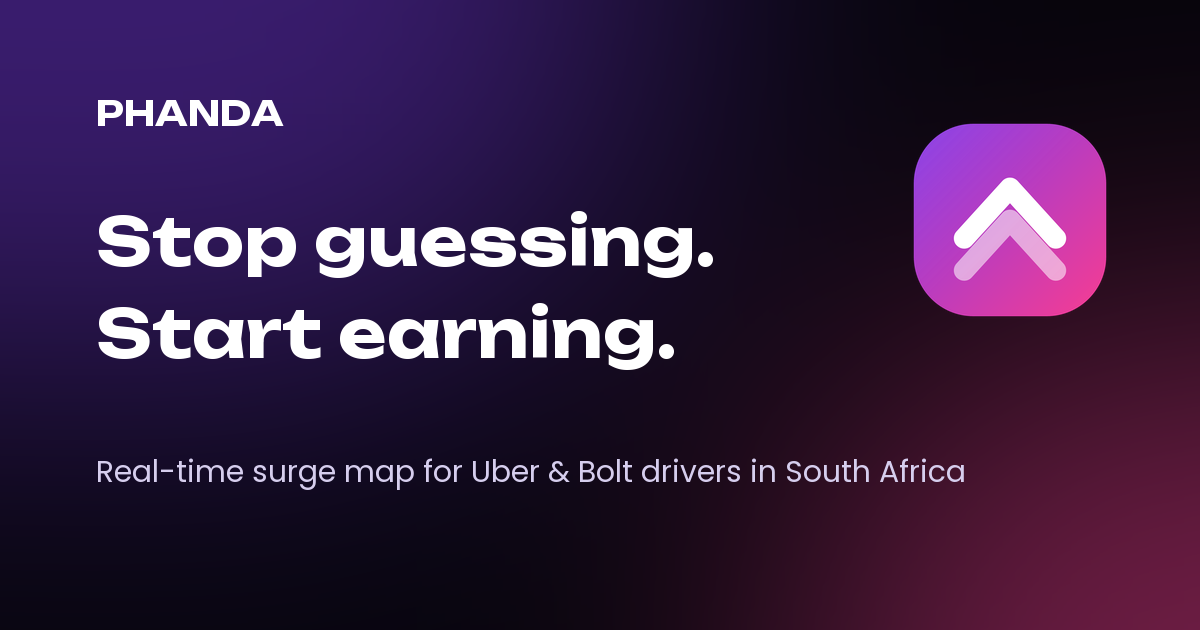
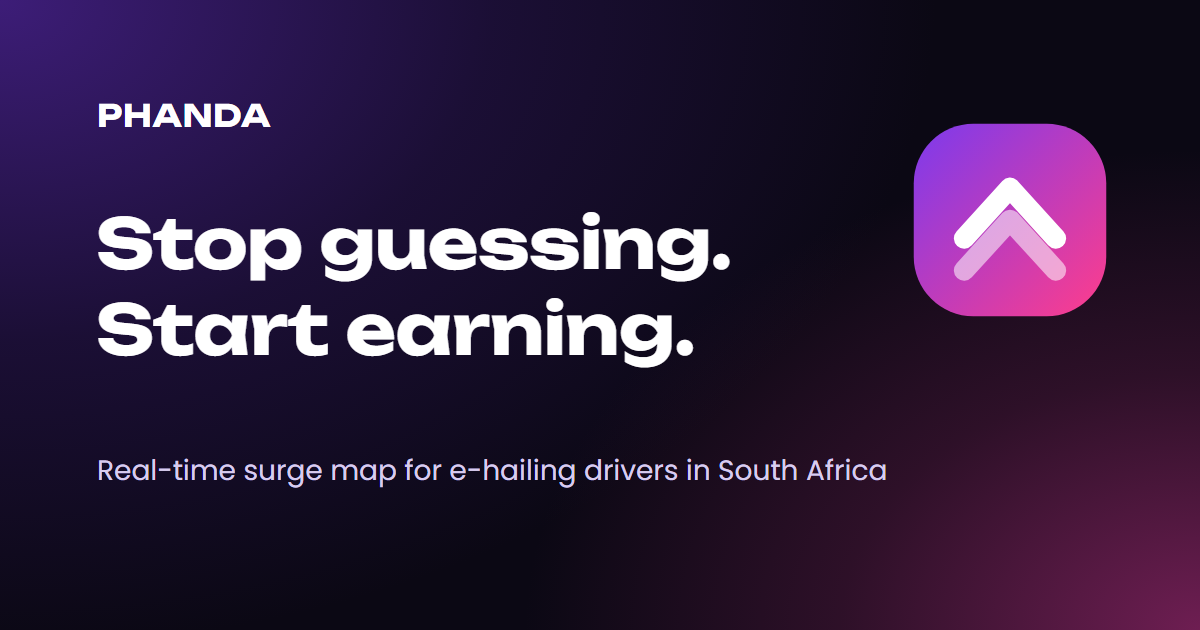
copy: say e-hailing drivers, not Uber and Bolt
Phanda is for e-hailing drivers whichever platform they drive for, so the
site names no e-hailing company: the page title, hero, description, web
manifest, share image, footer and Terms. The Terms' independence line now
says Phanda works alongside whichever platforms you drive for, and the
legal date moves to 11 November 2026.

The share image is redrawn from the site's own fonts and icon with only the
subtitle changed.

Changed region(s): [[0.0617, 0.0, 0.6167, 0.4524], [0.0617, 0.4825, 0.5858, 0.6032], [0.0617, 0.7238, 0.8017, 0.7841]]

diff --git a/src/pages/Home.tsx b/src/pages/Home.tsx
@@ -120,14 +120,14 @@ const legend = [
 export default function Home() {
   return (
     <>
-      <Seo title={`${site.appName}: surge map for Uber and Bolt drivers in Durban`} path="/" />
+      <Seo title={`${site.appName}: surge map for e-hailing drivers in Durban`} path="/" />
       <JsonLd data={appJsonLd} />
 
       {/* Hero */}
       <section className="hero">
         <div className="container hero__inner">
           <div>
-            <span className="eyebrow">For Uber &amp; Bolt drivers · {liveCityNames}</span>
+            <span className="eyebrow">For e-hailing drivers · {liveCityNames}</span>
             <h1>{site.tagline}</h1>
             <p className="lead">{site.description}</p>
             <div className="hero__cta">
@@ -136,7 +136,7 @@ export default function Home() {
                 See how it works
               </a>
             </div>
-            <p className="hero__note">Free to use · Made for South African e-hailing drivers</p>
+            <p className="hero__note">Free to use · Works whichever platform you drive for</p>
             {site.downloadsOpen && (
               <>
                 {/* Not from Google Play, so Android asks first. Saying so here

diff --git a/src/data/site.ts b/src/data/site.ts
@@ -12,7 +12,7 @@ export const site = {
   tagline: "Stop guessing. Start earning.",
   // Blurb reused from the app's About screen (app/(main)/about.tsx).
   description:
-    "Phanda helps Uber and Bolt drivers in Durban and the surrounding areas find high-demand spots by tracking local events in real time. Position yourself smarter, earn more, waste less time.",
+    "Phanda helps e-hailing drivers in Durban and the surrounding areas find high-demand spots by tracking local events in real time. Position yourself smarter, earn more, waste less time.",
 
   domain: "phandadrive.co.za",
   url: "https://phandadrive.co.za",
@@ -52,7 +52,7 @@ export const site = {
[1 lines of base64/hex data omitted]
 
   // Keep in sync with the date the legal copy was last edited.
-  lastUpdated: "9 November 2026",
+  lastUpdated: "11 November 2026",
 
   // The single statement of coverage on this site — the home page reads these
   // flags rather than restating coverage in prose.

diff --git a/src/pages/Terms.tsx b/src/pages/Terms.tsx
@@ -53,8 +53,7 @@ export default function Terms() {
       </p>
       <p>
         <strong>Independent app.</strong> {site.appName} isn&rsquo;t affiliated with, endorsed by or
-        sponsored by Uber, Bolt or any other ride-hailing company. Those names belong to their
-        owners, and we use them only to say who the app is for.
+        sponsored by any e-hailing company, and works alongside whichever platforms you drive for.
       </p>
       <p>
         <strong>Drive safely.</strong> Never interact with the app while your vehicle is moving.

diff --git a/src/components/Footer.tsx b/src/components/Footer.tsx
@@ -67,7 +67,7 @@ export default function Footer() {
 
         <p className="site-footer__notice">
           {site.appName} is an independent app. It isn&rsquo;t affiliated with, endorsed by or
-          sponsored by Uber, Bolt or any other ride-hailing company.
+          sponsored by any e-hailing company.
         </p>
 
         <div className="site-footer__bottom">

diff --git a/README.md b/README.md
@@ -112,7 +112,7 @@ definition — that marker is the live record; this list is only a summary.
 | ------------------------ | ------------------------------------------------------------------------------------------------------------------------------- |
 | `legalName` / `operator` | Needs the real legal/company name (and registered address, if there is one) for the responsible-party block in the legal pages. |
 | `lastUpdated`            | Bumped by hand; nothing enforces it when legal copy changes.                                                                    |
-| `public/og-image.png`    | Auto-generated placeholder; swap for a real social card.                                                                        |
+| `public/og-image.png`    | Social card. No e-hailing company is named on it or anywhere on the site (decided 2026-11-11).                                  |
 
 **Brand colour is genuinely undecided.** The site uses Electric Indigo `#6366F1`,
 the accent documented in the app's `constants/theme.ts`, but the app's own splash
